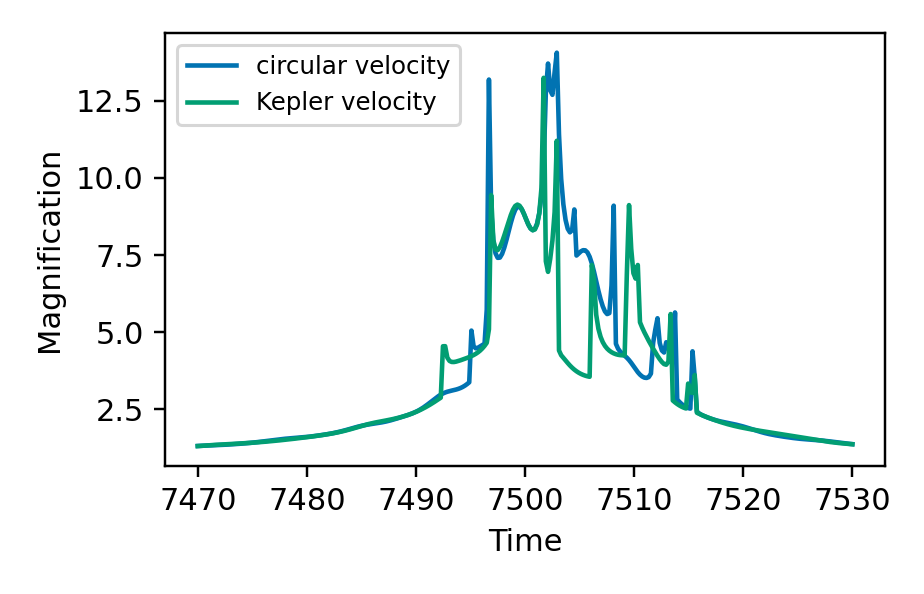
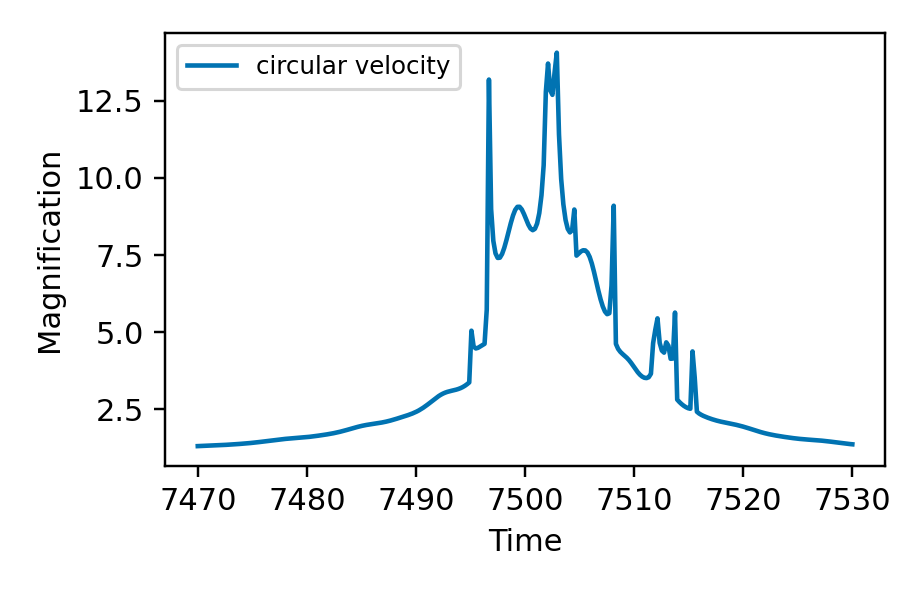
docs: add trajectory-offset xallarap light curve

diff --git a/example/docs-python/generate_figures.py b/example/docs-python/generate_figures.py
@@ -403,16 +403,8 @@ def binary_source_xallarap_lightcurve():
         source="binary", xallarap="circular_velocity",
         source_orbit_coordinates="xallarap", t_ref=7500.0,
     )
-    kepler = lcbinint.LightCurve(
-        source="binary", xallarap="kepler_velocity",
-        source_orbit_coordinates="xallarap", t_ref=7500.0,
-    )
     plt.figure(figsize=(4.2, 2.7))
     plt.plot(times, circular(times, params), color="#0173B2", label="circular velocity")
-    plt.plot(
-        times, kepler(times, dict(params, xa_szs=0.2, xa_ar=1.4)),
-        color="#029E73", label="Kepler velocity",
-    )
     plt.xlabel("Time")
     plt.ylabel("Magnification")
     plt.legend(loc="upper left", fontsize=8)
@@ -429,29 +421,35 @@ def binary_source_xallarap_elements_lightcurve():
     circular = lcbinint.LightCurve(
         source="binary", xallarap="circular_elements", t_ref=7500.0,
     )
-    orbital = lcbinint.LightCurve(
-        source="binary", xallarap="orbital_elements", t_ref=7500.0,
-    )
     plt.figure(figsize=(4.2, 2.7))
     plt.plot(
         times, circular(times, dict(params, period_xa=120.0, inc_xa=0.8)),
         color="#0173B2", label="circular elements",
     )
-    plt.plot(
-        times,
-        orbital(
-            times,
-            dict(
-                params,
-                period_xa=120.0, ecc_xa=0.2, peri_xa=0.4, inc_xa=0.8,
-            ),
-        ),
-        color="#029E73", label="orbital elements",
-    )
     plt.xlabel("Time")
     plt.ylabel("Magnification")
     plt.legend(loc="upper left", fontsize=8)
     save("BinarySource_xallarap_elements_lightcurve.png")
+
+
+def binary_source_xallarap_offset_lightcurve():
+    params = dict(
+        s=0.9, q=0.1, alpha=1.0, tE=30.0, t0=7500.0, u0=0.10,
+        t0_2=7501.2, u0_2=-0.06, rho1=0.004, rho2=0.002,
+        flux_ratio=0.4, source_mass_ratio=0.7,
+        w1=0.01, w2=0.8, w3=0.2,
+    )
+    times = np.linspace(7470.0, 7530.0, 300)
+    curve = lcbinint.LightCurve(
+        source="binary", xallarap="circular_velocity",
+        source_orbit_coordinates="trajectory_offset", t_ref=7500.0,
+    )
+    plt.figure(figsize=(4.2, 2.7))
+    plt.plot(times, curve(times, params), color="#0173B2", label="trajectory offset")
+    plt.xlabel("Time")
+    plt.ylabel("Magnification")
+    plt.legend(loc="upper left", fontsize=8)
+    save("BinarySource_xallarap_offset_lightcurve.png")
 
 
 def binary_source_binary_lens():
@@ -690,6 +688,7 @@ def main():
     binary_source()
     binary_source_xallarap_elements_lightcurve()
     binary_source_xallarap_lightcurve()
+    binary_source_xallarap_offset_lightcurve()
     binary_source_xallarap_trajectories()
     binary_source_binary_lens()
     limb_darkening()

diff --git a/docs/python/BinarySources.md b/docs/python/BinarySources.md
@@ -152,20 +152,9 @@ circular_elements = lcbinint.LightCurve(
 circular_elements_magnification = circular_elements(
     times, dict(parameters, period_xa=120.0, inc_xa=0.8),
 )
-
-orbital_elements = lcbinint.LightCurve(
-    source="binary", xallarap="orbital_elements", t_ref=7500.0,
-)
-orbital_elements_magnification = orbital_elements(
-    times,
-    dict(
-        parameters,
-        period_xa=120.0, ecc_xa=0.2, peri_xa=0.4, inc_xa=0.8,
-    ),
-)
 ```
 
-Plot both element-based modes:
+Plot the `circular_elements` example:
 
 ```python
 plt.figure(figsize=(4.2, 2.7))
@@ -173,17 +162,13 @@ plt.plot(
     times, circular_elements_magnification,
     color="#0173B2", label="circular elements",
 )
-plt.plot(
-    times, orbital_elements_magnification,
-    color="#029E73", label="orbital elements",
-)
 plt.xlabel("Time")
 plt.ylabel("Magnification")
 plt.legend(loc="upper left", fontsize=8)
 plt.show()
 ```
 
-![Element-based binary-source xallarap light curves](figures/BinarySource_xallarap_elements_lightcurve.png)
+![Circular-elements binary-source xallarap light curve](figures/BinarySource_xallarap_elements_lightcurve.png)
 
 ### Position--velocity modes
 
@@ -227,20 +212,9 @@ parameters = {
 }
 times = np.linspace(7470.0, 7530.0, 300)
 circular_velocity_magnification = circular_velocity(times, parameters)
-
-kepler_velocity = lcbinint.LightCurve(
-    source="binary",
-    xallarap="kepler_velocity",
-    source_orbit_coordinates="xallarap",
-    t_ref=7500.0,
-)
-kepler_velocity_magnification = kepler_velocity(
-    times,
-    dict(parameters, xa_szs=0.2, xa_ar=1.4),
-)
 ```
 
-Plot both velocity-based modes:
+Plot the `circular_velocity` example:
 
 ```python
 plt.figure(figsize=(4.2, 2.7))
@@ -248,17 +222,13 @@ plt.plot(
     times, circular_velocity_magnification,
     color="#0173B2", label="circular velocity",
 )
-plt.plot(
-    times, kepler_velocity_magnification,
-    color="#029E73", label="Kepler velocity",
-)
 plt.xlabel("Time")
 plt.ylabel("Magnification")
 plt.legend(loc="upper left", fontsize=8)
 plt.show()
 ```
 
-![Velocity-based binary-source xallarap light curves](figures/BinarySource_xallarap_lightcurve.png)
+![Circular-velocity binary-source xallarap light curve](figures/BinarySource_xallarap_lightcurve.png)
 
 Plot both source trajectories with the static lens caustics. `source_trajectory`
 returns one source track, so the two CoM-consistent states are evaluated
@@ -338,7 +308,25 @@ parameters = {
     "source_mass_ratio": 0.7,
     "w1": 0.01, "w2": 0.8, "w3": 0.2,
 }
+times = np.linspace(7470.0, 7530.0, 300)
+trajectory_offset_magnification = curve(times, parameters)
 ```
+
+Plot the binary-source light curve for this `trajectory_offset` convention:
+
+```python
+plt.figure(figsize=(4.2, 2.7))
+plt.plot(
+    times, trajectory_offset_magnification,
+    color="#0173B2", label="trajectory offset",
+)
+plt.xlabel("Time")
+plt.ylabel("Magnification")
+plt.legend(loc="upper left", fontsize=8)
+plt.show()
+```
+
+![Trajectory-offset binary-source xallarap light curve](figures/BinarySource_xallarap_offset_lightcurve.png)
 
 Choose `t_ref` near the event centre or the centre of the data span.  This
 makes the stated positional anchor useful and usually reduces parameter
